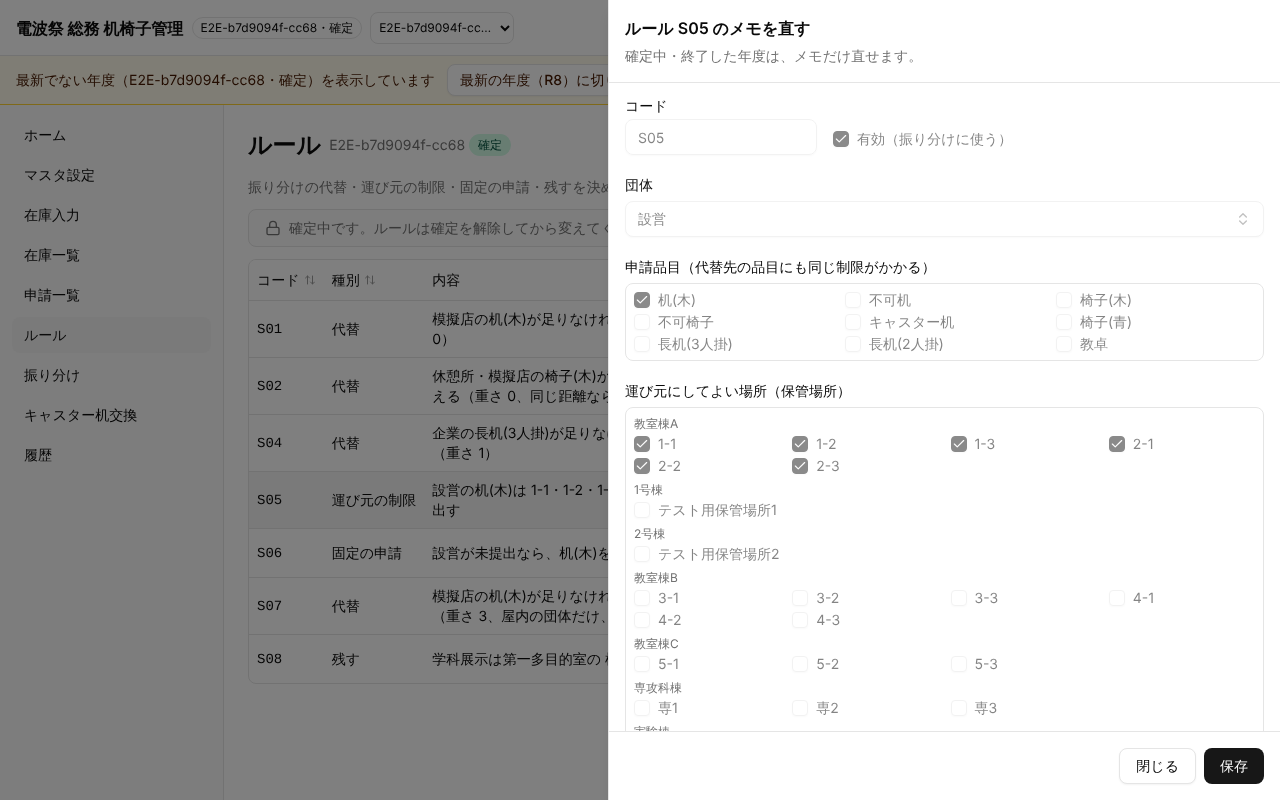
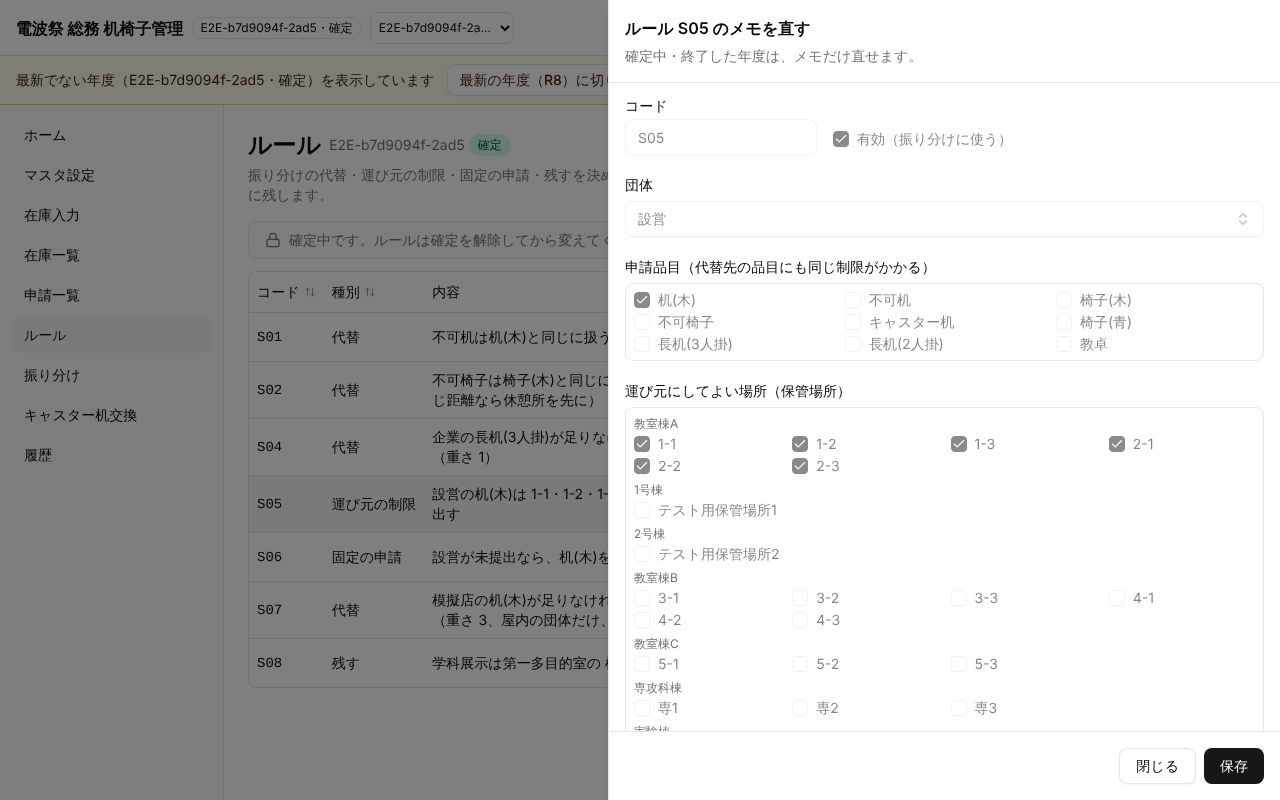
docs(T12): retake the rules screenshots and record the third round of fixes
- state-loading-pc now waits for the /rules PageHeader while the rules
  request is held, instead of capturing the app-wide loading state.
- Add form-keep-unusable-pc and show the unusable-room mark in the list.
- Record the commands and results after this round in notes/T12.md.

Claude-Session: https://claude.ai/code/session_01WNbyY2riVdfm15kp8tp6es

diff --git a/e2e/shots/T12.shots.ts b/e2e/shots/T12.shots.ts
@@ -1,6 +1,6 @@
 // T12 ルールのスクリーンショット（画面の設計 7.4）。`pnpm e2e:shots --grep T12` で notes/T12/ に撮る（CI では流さない）。
 // 一覧（PC・スマホ）、?code=S05 で開いた編集のシート、欄の下のエラー、ひな形のメニュー、無効にする確認、有効にできない理由、
-// 読み直しの失敗（前の一覧を残す帯）、空・読み込み中・権限なし・確定中（メモだけ）。
+// 読み直しの失敗（前の一覧を残す帯）、使用不可の場所を指す「残す」の印と知らせ、空・読み込み中・権限なし・確定中（メモだけ）。
 import { expect, test, type Page, type Route } from '@playwright/test';
 import { storageStateFor } from '../support/auth';
 import { createScenario, sql } from '../support/db';
@@ -24,6 +24,12 @@ test.describe('T12 管理者', () => {
         s.yearId,
       ]);
       await sql(`update public.rules set enabled = false, memo = 'E2E：今年は使わない' where year_id = $1 and code = 'S04'`, [s.yearId]);
+      // S08（残す）の場所を今年は使用不可にする（一覧の印・フォームの場所の欄の知らせ）
+      await sql(
+        `insert into public.room_years (year_id, room_id, usable, note) values ($1, $2, false, 'E2E：工事')
+         on conflict (year_id, room_id) do update set usable = false, note = excluded.note`,
+        [s.yearId, s.ids.rooms['第一多目的室']],
+      );
       await pinYear(page, SEED_USER_IDS.admin, s.yearId);
       await page.goto('/rules/');
       await waitList(page);
@@ -68,6 +74,13 @@ test.describe('T12 管理者', () => {
       await sheet.getByRole('button', { name: '閉じる' }).click();
       await expect(sheet).toBeHidden();
 
+      // 使用不可の場所を指す「残す」（S08）：場所の欄の下の知らせ
+      await page.locator(`[data-row-id="${s.ids.rules['S08']}"]`).getByRole('button', { name: 'S08 を編集' }).click();
+      await expect(sheet.locator('[data-field="params.room"] [data-field-warning]')).toBeVisible();
+      await shoot(page, 'T12', 'form-keep-unusable-pc');
+      await sheet.getByRole('button', { name: '閉じる' }).click();
+      await expect(sheet).toBeHidden();
+
       // 無効にする確認
       await page.locator(`[data-row-id="${s.ids.rules['S05']}"]`).getByRole('switch', { name: 'S05 を有効にする' }).click();
       await expect(page.getByRole('alertdialog')).toBeVisible();
@@ -102,6 +115,7 @@ test.describe('T12 管理者', () => {
       await shoot(page, 'T12', 'list-mobile');
       await page.locator(`[data-row-id="${s.ids.rules['S08']}"]`).getByRole('button', { name: 'S08 を編集' }).click();
       await expect(sheet.getByRole('heading', { name: 'ルール S08（残す）を編集' })).toBeVisible();
+      await expect(sheet.locator('[data-field="params.room"] [data-field-warning]')).toBeVisible();
       await shoot(page, 'T12', 'form-keep-mobile');
     } finally {
       await s.cleanup();
@@ -137,7 +151,11 @@ test.describe('T12 管理者', () => {
         await route.continue();
       });
       await page.goto('/rules/');
+      // アプリ全体の読み込み（立場・年度）が終わり、/rules の PageHeader が出て、ルールの応答を待っているところを撮る
+      await expect(page.getByRole('heading', { level: 1, name: 'ルール' })).toBeVisible();
+      await expect(page.getByTestId('current-year')).toBeAttached();
       await expect(page.getByRole('status').filter({ hasText: '読み込み中…' }).first()).toBeVisible();
+      await expect(page.getByTestId('rules-screen')).toHaveCount(0);
       await shoot(page, 'T12', 'state-loading-pc');
       release();
       await expect(page.getByText('ルールがありません')).toBeVisible();

diff --git a/notes/T12.md b/notes/T12.md
@@ -8,7 +8,7 @@
 - 保存の前に ruleRowSchema（形）と checkRuleRefs（自分以外の有効なルール。参照と重なり）で確かめ、エラーを path（`params.rooms` など）ごとに欄の下に出す。団体・場所は名前で選んで id、品目はコードで保存。保存は rules への直接の insert と、updated_at で楽観ロックした update（updateWithLock）。
 - 確定中（confirmed）と終了（closed）はメモだけ直せる（追加・有効の切り替え・params の欄は出さないか押せない）。振り分け中は「ルールを変えると、振り分け画面で再実行が要ります」の帯。
 - `?code=S05` でその行を目立たせ、編集のシートを開く。有効なルールのうち参照の切れたもの（消した団体・場所を指す）・ほかと重なるもの・形の壊れたものに印（「参照が切れています（団体が見つかりません）」など）を出す。
-- lib/data/rules.ts（describeRule・checkRuleForm・checkEnable・ruleProblems・ひな形・読み書き）と Vitest 18 件、E2E（e2e/t12-rules.spec.ts。6 件）、スクリーンショット 23 枚（notes/T12/）、04 の「ルール」の節（差分案 3-13）。
+- lib/data/rules.ts（describeRule・checkRuleForm・checkEnable・ruleProblems・ひな形・読み書き）と Vitest 22 件、E2E（e2e/t12-rules.spec.ts。9 件）、スクリーンショット 24 枚（notes/T12/）（件数は 3 回目の直しの後）、04 の「ルール」の節（差分案 3-13）。
 
 ### 完了基準との対応（docs/prompts/T12.md）
 
@@ -29,14 +29,14 @@
 | --- | --- |
 | docs/requirements/04_screens_api.md | 「ルール /rules（PC）」の節を差分案 3-13 の変更後に（変更前の文が今の文と同じことを確かめてから当てた） |
 | apps/web/lib/data/rules.ts（新規） | 読む（fetchRulesData・useRulesData。キーは `['year', yearId, 'rules']`）、書く（insertRule・updateRule・findRuleByCode・findRuleById・sameRuleWrite）、年度の状態で直せるもの（ruleEditMode）、確かめ（checkRuleForm・checkEnable・ruleProblems・otherEnabledRules・ruleCheckBase）、フォームの値（RuleFormValues・ruleToForm・formToCandidate・normalizeRuleRow・toRuleWrite）、内容の文（describeRule・ruleNamesOf）、ひな形（R8_RULE_TEMPLATES・templateToForm・missingTemplates）、`?code=`（parseCodeParam） |
-| apps/web/lib/data/rules.test.ts（新規） | Vitest 18 件（describeRule の4種類・見つからない名前・壊れた params、rules.json を1つずつ足すと同じ行、ひな形＋団体・場所で同じ行、ひな形の S05・S06・S08 は選ばないと欄のエラー、形の誤りの日本語、重なり〔自分自身・無効のルールとは重ならない、無効で保存するときは見ない〕、コードの重複は無効のルールとも、参照の切れ・E005・申請できない品目、場所の並び、checkEnable、ruleProblems、ruleEditMode、missingTemplates、parseCodeParam、canonicalJson・sameRuleWrite、壊れた params の読み込み） |
+| apps/web/lib/data/rules.test.ts（新規） | Vitest 22 件（3 回目の直しで、使用不可の場所の知らせと印・ruleRefMessage・keepRoomAfterGroupChange を足した。describeRule の4種類・見つからない名前・壊れた params、rules.json を1つずつ足すと同じ行、ひな形＋団体・場所で同じ行、ひな形の S05・S06・S08 は選ばないと欄のエラー、形の誤りの日本語、重なり〔自分自身・無効のルールとは重ならない、無効で保存するときは見ない〕、コードの重複は無効のルールとも、参照の切れ・E005・申請できない品目、場所の並び、checkEnable、ruleProblems、ruleEditMode、missingTemplates、parseCodeParam、canonicalJson・sameRuleWrite、壊れた params の読み込み） |
 | apps/web/app/(app)/rules/page.tsx | 雛形を置き換え（`<Suspense>`＋`<RequireAudience href="/rules">`＋RulesScreen） |
 | apps/web/components/rules/rules-screen.tsx（新規） | 画面（一覧・帯・メニュー・Switch・無効にする確認・有効にできない理由・書き込みとエラーの扱い） |
 | apps/web/components/rules/rule-form-sheet.tsx（新規） | 追加・編集のシート（コード・有効・種別の欄・メモ。保存の前の確かめ、捨てる確認、UnsavedChangesGuard） |
 | apps/web/components/rules/rule-fields.tsx（新規） | 種別ごとの欄（EntitySelect・チェックの一覧・数の入力）と欄の下のエラー |
-| e2e/t12-rules.spec.ts（新規） | E2E 6 件（上の表と、部員が URL で開くと「権限がありません」、レビューの指摘の2件〔下の「レビューの指摘を直したもの」〕） |
-| e2e/shots/T12.shots.ts（新規） | スクリーンショット 5 件（23 枚） |
-| e2e/foundation.spec.ts | T09a.md の申し送りのとおり、TICKET から `/rules/` の行を外し、expectPlaceholder は TICKET にないパス（雛形を置き換えた画面）を見ないようにした（2行） |
+| e2e/t12-rules.spec.ts（新規） | E2E 9 件（上の表と、部員が URL で開くと「権限がありません」、レビューの指摘の 1 回目の2件・2 回目の2件・3 回目の1件〔下の「レビューの指摘を直したもの」〕） |
+| e2e/shots/T12.shots.ts（新規） | スクリーンショット 5 件（24 枚。3 回目の直しで form-keep-unusable-pc を足した） |
+| e2e/foundation.spec.ts | 最初は TICKET から `/rules/` の行を外していたが、3 回目の直しで T09a の側（TICKET と expectPlaceholder をなくした形）を採り、T12 の変更はなくなった |
 | notes/T12.md・notes/T12/ | この記録とスクリーンショット |
 
 packages/shared・supabase/・T09a のファイル（components/ui・components/common・lib の共通の層・e2e/support・e2e/setup・playwright.config.ts など）・package.json・pnpm-lock.yaml・notes/decisions.md・05 の状態の列は変えていない。
@@ -65,11 +65,11 @@ packages/shared・supabase/・T09a のファイル（components/ui・components/
 - E2E で、EntitySelect を選んだ直後に次の EntitySelect を開くと、前のポップオーバーが閉じきったときにフォーカスを前のボタンに戻し、次のポップオーバーが閉じた（下の「T09a への申し送り」）。E2E の pick はポップオーバー（`[cmdk-root]`）が消えるまで待つ。
 - スクリーンショット：ひな形が全部ある年度ではメニューが押せない（正しい）ので、ひな形のメニューは空の年度で撮った。ひな形のまま（入力を変えていない）のシートは確かめずに閉じる（正しい）。
 
-### スクリーンショット（notes/T12/。`pnpm e2e:shots --grep T12`）
+### スクリーンショット（notes/T12/。`pnpm e2e:shots --grep "T12 "`）
 
 | ファイル | 中身 |
 | --- | --- |
-| list-pc.png・list-pc-full.png | 一覧（振り分け中の帯、直す必要のあるルールの帯、無効の S04、参照の切れた S06 の印） |
+| list-pc.png・list-pc-full.png | 一覧（振り分け中の帯、直す必要のあるルールの帯、無効の S04、参照の切れた S06 の印、場所が使用不可の S08 の印） |
 | reload-error-pc.png | 読んだ後の読み直しの失敗（rules の通信を切って「読み直す」。前の一覧を残し、上に帯と「もう一度」、toast） |
 | list-mobile.png | スマホ（390px。ページは横にスクロールしない。表の中だけ横に動く） |
 | add-menu-pc.png・template-menu-pc.png | 「ルールを追加」の種別のメニュー、「R8 の初期ルールから追加」のメニュー（まだないコードだけ） |
@@ -77,13 +77,14 @@ packages/shared・supabase/・T09a のファイル（components/ui・components/
 | form-overlap-error-pc.png | 重なる代替：区分の欄の下にエラー |
 | form-broken-ref-error-pc.png | 参照の切れた S06：団体の欄の下にエラー |
 | form-template-s05-pc.png | ひな形 S05：団体・場所を選ばずに保存 → 欄の下にエラー |
-| form-keep-mobile.png | 残すのフォーム（スマホ。使用場所の案内・品目ごとの数） |
+| form-keep-mobile.png | 残すのフォーム（スマホ。使用場所の案内・場所が今年使用不可の知らせ・品目ごとの数） |
+| form-keep-unusable-pc.png | 残すのフォーム（PC）。場所が今年使用不可の知らせ |
 | discard-dialog-pc.png | 入力を捨てるかの確認 |
 | disable-dialog-pc.png | 無効にする確認（メモの欄） |
 | enable-blocked-dialog-pc.png | 有効にできない理由（重なり）と「編集する」 |
 | code-s05-sheet-pc.png・code-s05-highlight-pc.png | `?code=S05` で開いたシートと、閉じた後の目立たせた行 |
 | confirmed-pc.png・confirmed-memo-sheet-pc.png | 確定中（帯・追加なし・Switch が押せない）とメモだけのシート |
-| state-loading-pc.png・state-empty-pc.png・state-empty-mobile.png | 読み込み中（rules の応答を止めて撮った）・空（ひな形と種別のメニューつき） |
+| state-loading-pc.png・state-empty-pc.png・state-empty-mobile.png | 読み込み中（rules の応答を止め、/rules の PageHeader が出るのを待って撮った）・空（ひな形と種別のメニューつき） |
 | state-forbidden-pc.png・state-forbidden-mobile.png | 部員が開いたとき（権限がありません） |
 
 ## 決めたこと
@@ -121,12 +122,51 @@ packages/shared・supabase/・T09a のファイル（components/ui・components/
    - E2E「シートを開いた後に一覧が読み直されても、開いたときの版で保存する」：`page.clock.install()` の後に `?code=S05` を開き、SQL で S05 の場所から 2-3 を外してメモを直す。時計を 31 秒進めて `setOffline(true→false)` で refetchOnReconnect を起こし、一覧の行にほかの人のメモが出るまで待つ。メモを直して保存すると「他の人が先に変更しました。読み直しました」で DB はほかの人のまま（場所 5 つ）、もう一度保存するとシートの内容（場所 6 つ）で上書きされる。直す前は1回目の保存がそのまま通って落ちた。
    - E2E「無効にするダイアログを開いた後に一覧が読み直されても、開いたときの版で送る」：同じ方法でダイアログの裏で読み直させ、「無効にする」→ ダイアログが閉じ、S04 は有効のままでほかの人のメモが残る。直す前は無効になり、メモが上書きされて落ちた。
 
+2 回目の直しの後に流したコマンドと結果は、この記録に書き残していなかった（上の T09a への申し送り 6 の「pnpm e2e が audit_logs の statement timeout で 2 回落ち、`supabase db reset` の後に通った」だけが残っている）。結果を後から思い出して書くことはせず、3 回目の直しの後に全部を流し直した結果を下に書く（2 回目の直しの E2E 2 件も、その中で通っている）。
+
+## レビューの指摘を直したもの（3 回目、2026-10-29）
+
+作業の最初に `git merge -m 'chore(T12): merge feat/T09a-ui-foundation' feat/T09a-ui-foundation` で T09a の最新を取り込んだ。e2e/foundation.spec.ts が衝突したので T09a の側を採った（T09a が TICKET と expectPlaceholder をなくし、h1 と「権限がありません」だけを見る形にしたので、T12 が足した「TICKET にないパスは return」と /rules/ の行は要らない）。git が足すメッセージの「# Conflicts:」の行は、push 前の自分のマージのコミットを `--amend -m` で消した。T09a が PageHeader の題名の段をスマホで全幅にした（T09a.md の申し送り 2）ので、説明を PageHeader の外の段落に出した回避（8cd876d）を戻し、`description` に渡した。
+
+直す前に、Vitest（rules.test.ts の 8 件が落ちた）と E2E（下の 4 件が落ちた：古い画面を `pnpm build:e2e` して、新しい t12-rules.spec.ts を流した）で落ちることを確かめてから直した。
+
+1. **「残す」の部屋が今年使用不可でも、印もエラーも出なかった**（lib/data/rules.ts・rule-fields.tsx。allocate の前処理は E002 で止まる。03 の前処理 3）：fetchRulesData で、その年度の room_years も読む（RulesData.roomYears。行がない場所は使用可）。有効な「残す」のルールの部屋が使用不可なら、一覧に「使用不可の場所です」の印と「第一多目的室は今年使用不可です。このままでは振り分けが止まります（E002）。マスタ設定で使用可にするか、場所を選び直してください」を出し、上の「直す必要のある有効なルールが N 件」にも数える（参照の切れなどと一緒なら「要確認」か「参照が切れています」の印に文言を足す）。フォームでも場所の欄の下に同じ文言を出す（`data-field-warning`。琥珀色）。
+   - **保存は止めず、知らせるだけにした**：場所の使用はマスタ設定（room_years）で年度ごとに変えるもので、ルールを直さなくても使用可に戻せば直る。止めると、使用不可の場所を指すルールのメモを直すことも保存できなくなる。振り分けは前処理の E002 で止まり、一覧の印と帯で直す必要が見えるので、ここで止めなくても気づける。checkRuleForm は `warnings`（止めない知らせ）を返す。有効にする（Switch）ときも止めない（有効にすると一覧に印が出る）。04 の「ルール」の節にも書いた。
+   - Vitest：checkRuleForm の warnings（使用不可なら場所の欄・保存は止めない・使用可やほかの種別では出ない）、ruleProblems（有効なルールにだけ印）。E2E「「残す」の場所が今年使用不可なら、一覧に印、フォームの場所の欄に知らせる（保存は止めない）」：SQL で room_years を使用不可にし、S08 の印と帯の件数、シートの場所の欄の知らせ（使用可の場所を選ぶと消え、戻すと出る）、メモを直して保存できること、無効にすると印が消えることを確かめる。
+2. **重さ 0 の代替の内容の文**（describeRule）：S01・S02 のような重さ 0 の代替は「足りなければ代える」でなく、その区分では元の品目と同じに扱う（01 の規則4）ので、「不可机は机(木)と同じに扱う（模擬店）」「不可椅子は椅子(木)と同じに扱う（休憩所・模擬店、同じ距離なら休憩所を先に）」にした。重さ 1 以上は今までどおり「企業の長机(3人掛)が足りなければ長机(2人掛)で代える（重さ 1）」。Vitest を直し、S04 の文も足した。
+3. **「残す」で団体を選び直しても場所が前の団体の使用場所のままだった**（rule-fields.tsx・lib/data/rules.ts の keepRoomAfterGroupChange）：場所が空か、前の団体の使用場所のままなら、新しい団体の使用場所に替える（新しい団体に使用場所がなければ空）。手で選んだ場所（前の団体の使用場所でない場所）は替えない。Vitest と、E2E の1件目（S08 のひな形で 模擬店01 → 1-1、模擬店02 → 1-2、場所を 2-1 に選んでから 学科展示 → 2-1 のまま）。
+4. **checkRuleRefs の文言が品目のコードで出た**（lib/data/rules.ts の ruleRefMessage）：packages/shared は変えず、画面に出す前に、文言の「」・（→）・（・）で囲まれた品目のコードを、品目の一覧の名前にする（「同じ代替（机(木)→不可机）で区分が重なるルール S01 があります」「この団体の区分は「長机(3人掛)」を申請できません。読み替え先の「長机(2人掛)」を選んでください」）。品目の一覧にないコード（「品目「x」がありません」）はコードのまま、path が code の文言（ルールのコード）は直さない。checkRuleForm・checkEnable・ruleProblems の3か所で通す。Vitest を足し、E2E の文言を名前に直した。
+5. **編集のシートで何も変えていなくても保存で update を送った**（rule-form-sheet.tsx）：編集（メモだけのシートも）で、入力が開いたときのままか、送る内容が保存してある行（版も同じ）と同じ（変えて戻したときなど）なら、update を送らず「変更はありません」の toast で閉じる。**保存のボタンは押せないようにせず、「送らない」にした**：参照の切れたルールを開いて何も変えずに保存を押すと、今までどおり欄の下にエラーが出て止まる（確かめは送るときと同じに通し、通ったときだけ閉じる）。押せなくすると、このエラーを見るには何かを変える必要があり、1 回目に足した E2E（S06 を開いて保存 → 団体の欄にエラー）とスクリーンショット form-broken-ref-error-pc も崩れる（押せなくした版で pnpm e2e がそこで落ちたので、送らない形に替えた）。新規（ひな形を含む）は今までどおり。E2E の2件目（?code=S05 のシートで何も変えずに保存 → 閉じて「変更はありません」、メモを変えて戻して保存 → 閉じる。どちらも years.allocation_version と S05 の updated_at が変わらない）。
+6. **スクリーンショットの state-loading-pc.png がアプリ全体の読み込み中を撮っていた**（e2e/shots/T12.shots.ts）：rules の応答を止めたまま、/rules の PageHeader（h1「ルール」）とヘッダーの年度の印が出て、RulesView がまだ出ていないのを待ってから撮る。
+7. スクリーンショットは、S08 の場所を使用不可にした一覧（list-pc・list-pc-full・list-mobile）、form-keep-mobile（場所の欄の知らせ）、新しい form-keep-unusable-pc（PC のシートの場所の欄の知らせ）、state-loading-pc を撮り直した（撮影は全部やり直したので、ほかの画像もシナリオの年度名などが変わった）。
+
+### 実行したコマンドと結果（3 回目の直しの後、2026-10-29）
+
+| コマンド | 結果 |
+| --- | --- |
+| `git merge -m 'chore(T12): merge feat/T09a-ui-foundation' feat/T09a-ui-foundation` | e2e/foundation.spec.ts が衝突 → T09a の側を採ってコミット |
+| （直す前の確かめ）`pnpm exec vitest run lib/data/rules.test.ts`（rules.ts だけ前のまま） | 22 件中 8 件が落ちた（足したテストと、文言を名前に直したテスト） |
+| （直す前の確かめ）前の画面で `pnpm build:e2e` → `db-lock.sh … E2E_PORT=3260 pnpm exec playwright test --project=chromium e2e/t12-rules.spec.ts --grep "T12 ルールのない年度\|T12 重なる\|T12 「残す」\|T12 確定中"` | 4 件とも落ちた（団体を選び直すと場所が 1-1 のまま、保存が押せた、使用不可の印がない、メモだけのシートの保存が押せた）。保存の確かめは後で「送らない」形に替えた（上の 5） |
+| `pnpm lint` | 成功（警告・エラーなし） |
+| `pnpm typecheck` | 成功 |
+| `pnpm test` | 70 ファイル・653 件成功（todo 2） |
+| `pnpm build` | 成功（/rules は静的） |
+| `pnpm check:emails` | OK: 505 ファイルにメールアドレスはありません |
+| `pnpm check:no-test-login`（`pnpm build` の直後） | テスト用ログインは含まれていません（apps/web/out） |
+| `pnpm build:e2e` | 成功 |
+| `db-lock.sh … E2E_PORT=3260 pnpm e2e`（保存を押せなくした版） | chromium 1 件失敗（2件目：参照の切れた S06 を開いて何も変えずに保存 → 押せずに止まった）。「送らない」形に替えた |
+| `db-lock.sh … E2E_PORT=3260 pnpm exec playwright test --project=chromium e2e/t12-rules.spec.ts` | 14 件成功（setup 5＋T12 の 9） |
+| `db-lock.sh … E2E_PORT=3260 pnpm e2e` | chromium 51 件成功・serial 9 件成功（`[e2e] chromium 成功・serial 成功`）。audit_logs の statement timeout は今回は出なかった（db reset はしていない） |
+| `db-lock.sh bash -c 'cd /home/user/wt/T12 && E2E_PORT=3260 pnpm e2e:shots --grep "T12 "'` | 10 件成功（setup 5＋撮影 5。24 枚） |
+
+lint・typecheck・test・build・check:emails・check:no-test-login は最後の変更（保存を「送らない」形に替え、記録を直した後）にもう一度流し、上と同じ結果だった。E2E と撮影も最後の変更の後の build:e2e で流した。
+
 ## T14 への申し送り
 
 - 通しの流れでルールを画面から入れるときは、e2e/t12-rules.spec.ts の `pick`（EntitySelect を選んで、ポップオーバーが閉じきるまで待つ）・`openAdd`・`openTemplate`・`fillSubstitute` の形が使える（ファイルは T12 のものなので、写して使う）。ひな形の S01・S02・S04・S07 は開いて保存するだけ、S05・S06・S08 は団体（S05 は場所も）を選ぶ。
 - 振り分け画面（T13）からの `/rules?code=<コード>` は、その行を目立たせて編集のシートを開く。確定中はメモだけのシートになる。
 - describeRule（lib/data/rules.ts）は振り分け画面の原因の表示（ルールの文）にも使える（`describeRule(rule, ruleNamesOf({ items, rooms, groups }))`）。
-- 手での受け入れ（7.6）で見てほしいところ：重なりのエラーの文が品目のコード（`desk→desk_ng`）で出る（shared の checkRuleRefs の文言。下の「未決のこと」）。
+- checkRuleRefs の文言の品目のコードは、画面で名前に直して出す（lib/data/rules.ts の ruleRefMessage。振り分け画面で shared の文言を出すときも使える）。
 
 ## T09a への申し送り（T09a のファイルは直していない）
 
@@ -139,7 +179,7 @@ packages/shared・supabase/・T09a のファイル（components/ui・components/
 
 ## 未決のこと・気づいたこと
 
-- **shared の checkRuleRefs の文言が品目のコードを出す**（「同じ代替（desk→desk_ng）で区分が重なるルール S01 があります」「品目「x」がありません」「この団体の区分は「long_desk_3」を申請できません。読み替え先の「long_desk_2」を選んでください」）。画面ではそのまま出している（packages/shared は T12 で変えない）。名前で出すなら、shared に名前の引き方を渡すか、画面で文言を組み直す（相談したい）。
+- shared の checkRuleRefs の文言は品目のコードを出す（「同じ代替（desk→desk_ng）で…」）。T12 では packages/shared を変えず、画面で ruleRefMessage を通して名前に直した（3 回目の直し 4）。shared の文言の形（「」・（→）・（・）で囲む）を変えると直らなくなるので、変えるときは rules.test.ts の ruleRefMessage のテストも見る。
 - shared の ruleRowSchema の memo は長さの上限がない（DB は 2000 字）。画面で NOTE_MAX（2000）を確かめている。
 - DB の不具合・足りない RPC は見つからなかった（rules は直接の insert・update で足りる。確定中の書き込みは DB が許すので、画面で止めている。設計 3.8 のとおり）。
 - 確定中に API で直接ルールを変えることは DB が許す（設計のとおり画面だけで止める）。止めたいなら DB の guard_rules に confirmed も入れる案がある（T12 の範囲外）。
